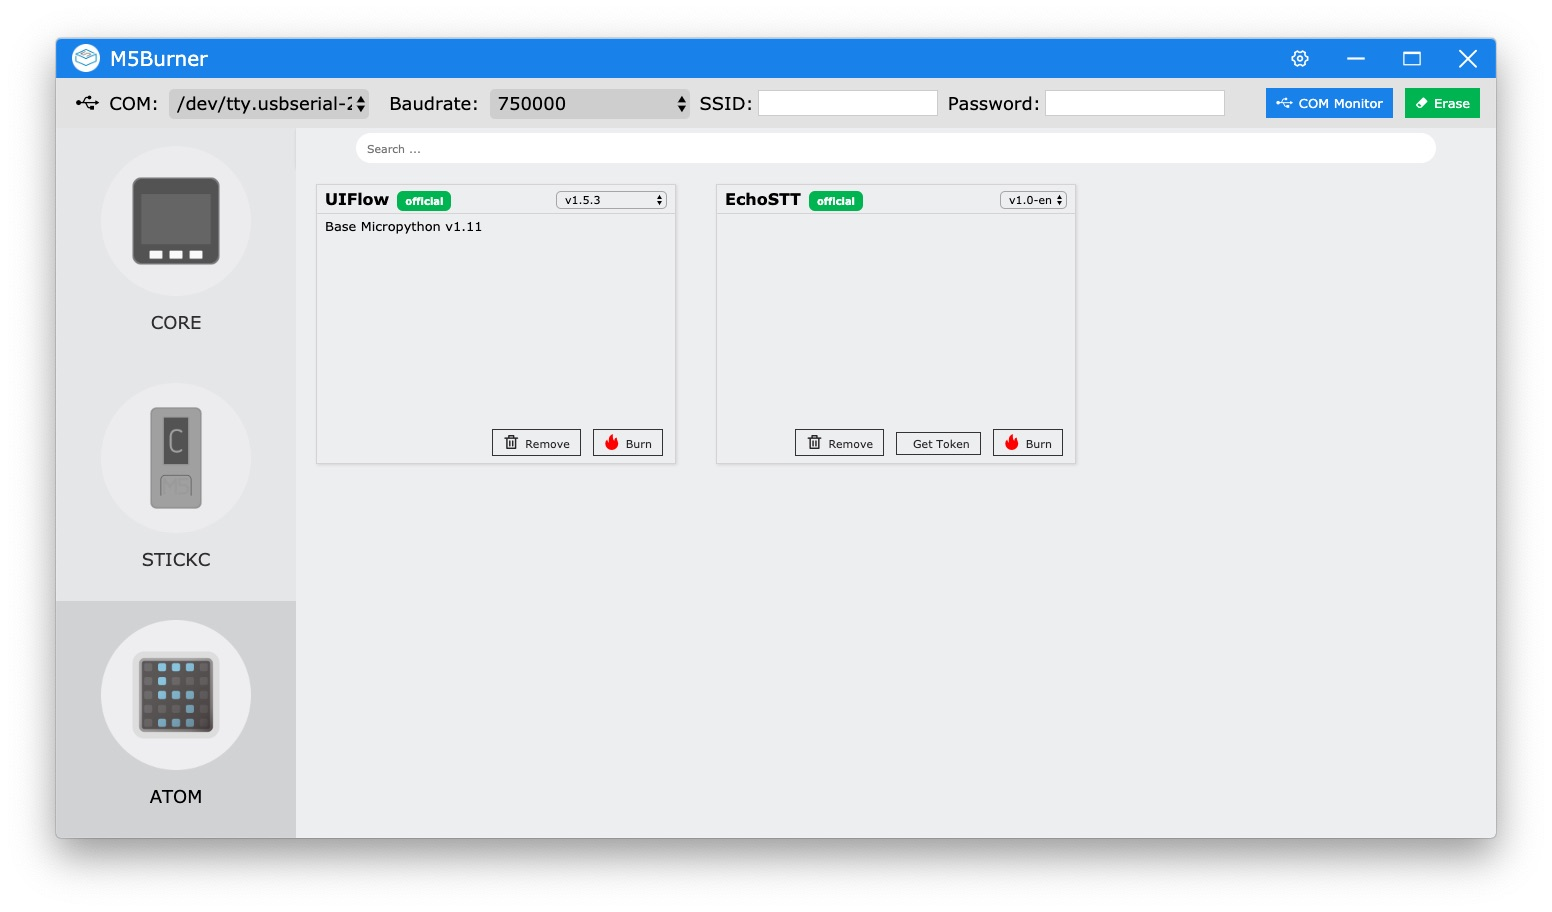
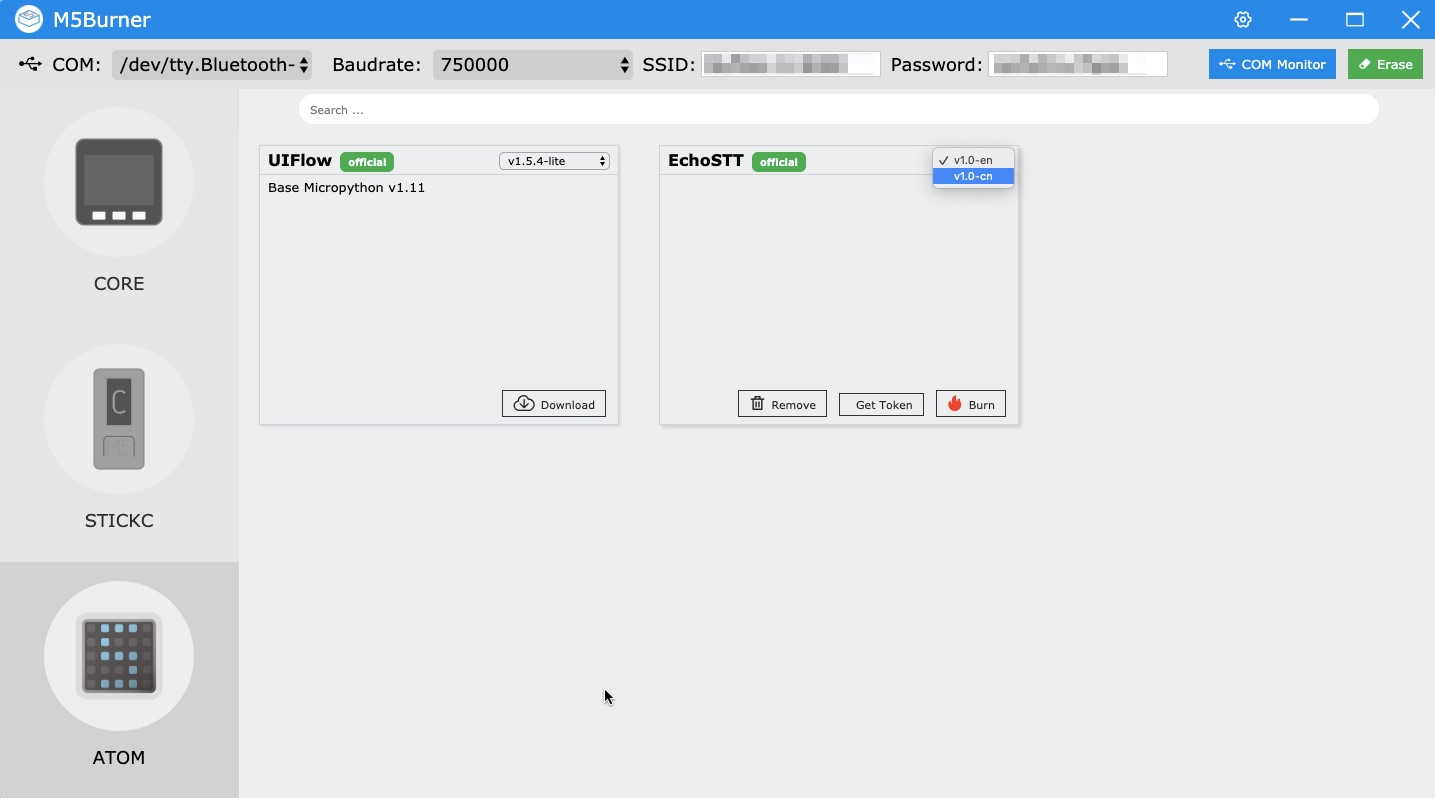
2020年6月【号外】

diff --git a/m5monthlyupdate/202006extra/index.html b/m5monthlyupdate/202006extra/index.html
@@ -160,6 +160,40 @@ hello</code></pre>
                 <h3>StreamHttpClient_ECHO</h3>
                 <p>「StreamHttpClient_ECHO」は、サーバー上のMP3ファイルを再生するサンプルで、とあるサーバー上のファンファーレのMP3ファイルを再生するようですが、コンパイルエラーになり、実行できませんでした。</p>
 
+                <h2 id="atom-echoで音声認識してみる">ATOM ECHOで音声認識してみる</h2>
+                <p>ATOM ECHOでは、Baiduの音声認識APIを使って音声認識するサンプルがあります。
+                    ATOM ECHOは音声を録音し、それをBaiduの音声認識APIに渡し、結果を受け取るという流れです。
+                    さらに別のM5StackやM5StickCを使い、UI Flowで音声認識の結果を受け取ることができます。</p>
+                <p>このためには、M5Burnerというツールでファームウェアをインストールする必要があります。
+                    M5Burnerも新しくなっているので、M5Stackサイトの<a href="https://m5stack.com/pages/download">ダウンロードページ</a> で最新版（2.0.0）をダウンロードしてPCにインストールします。</p>
+                <p><img src="./images/m5burner.jpg" width="80%" class="img-responsive center-block" alt="M5Burner"></p>
+                <p>M5BurnerのUIも新しくなっています。ATOMを選択すると、UI FLOWとEchoSTTというファームウェアが表示されます。UI Flowは名前の通り、UI Flow用のファームウェア、EchoSTTは音声認識（speech to text）のファームウェアです。</p>
+                <p>M5BurnerでATOM ECHOにEchoSTTを書き込みます。M5Burner上部のSSIDとPasswordにお使いのWi-Fiルーターのものを設定し、ATOM ECHOをUSBケーブルでパソコンにつないで、ポート番号（Macならデバイス名）をCOMに設定します。EchoSTTには英語版と中国語版がありますが、中国語版（v1.0-cn）を選び、最初に「Erase」をクリックして消去してから「Burn」をクリックして書き込みます。書き込みが終わったら「Get Token」をクリックしてトークンを取得しておきます。</p>
+                <p><img src="./images/gettoken.jpg" width="80%" class="img-responsive center-block" alt="トークン取得"></p>
+                <p>ATOM ECHOはBaiduからの認識結果をシリアルに出力するので、M5BurnerのCOM Monitorを立ち上げておきます。</p>
+                <p>著者は中国語ができないので、Google翻訳で適当な言葉を中国語にして、それをパソコンで発音させました。</p>
+                <p><img src="./images/lighton.jpg" width="80%" class="img-responsive center-block" alt="lighton"></p>
+                <p>ATOM ECHOのボタンを押して発音を録音し、ボタンを離すと音声がBaiduに送られ、結果が表示されます。</p>
+<pre><code>Init i2s_driver_install
+Init i2s_set_pin
+Init i2s_set_clk
+end
+Time 6160ms
+{"corpus_no":"6836131087810952731","err_msg":"success.","err_no":0,"result":["黑的。"],"sn":"161096290031591660801"}
+黑的。</code></pre>
+                <p>开灯（Kāi dēng、電気をつける）が黑的（Hēi de、黒）と認識されてしまいました。いろいろ試しましたが、Google翻訳で発音させた単語はうまく認識されませんでした。M5Stack社CEOのJimmyさんに开灯（電気をつける）、关灯（電気を消す）と発音してもらい、その音声ファイルを再生してATOM ECHOに聞かせたところ、次のように認識できました。</p>
+<pre><code>Time 43822ms
+{"corpus_no":"6836131688517212836","err_msg":"success.","err_no":0,"result":["开灯。"],"sn":"7165438761591660941"}
+开灯。
+
+Time 4169ms
+{"corpus_no":"6836131792467209458","err_msg":"success.","err_no":0,"result":["关灯。"],"sn":"768037177181591660965"}
+关灯。</code></pre>
+                <p>UI Flowの最新版（V1.5.4）には「高度なブロック」の中に「Echo STT」というブロックが用意されています。最新版はUI Flowのメニューバーの「VER」で「Beta」を選ぶと切り替えられます。Echo STTにはトークンを使って初期化するブロック、ECHOのデータを受信するなどのブロックがあります。これらを使うと、次のようにATOM ECHOで音声を録音、認識し、その結果を別のM5StackやM5StickCで受信して、認識した単語によって制御するようなプログラムが作れます。</p>
+                <p><img src="./images/uiflow.jpg" alt="UIFlow"></p>
+                <p>Jimmyさんの声を使い、ATOM ECHOで録音して音声認識し、その結果をM5StickCで受信してLEDを制御してみたのが次の動画です。</p>
+                <iframe width="560" height="315" src="https://www.youtube.com/embed/uYGPdKam2l8" allowfullscreen=""></iframe>
+
                 <h2 id="まとめ">まとめ</h2>
                 <p>M5StickCを使ったときに「スピーカーが内蔵されてたら便利だな」と感じていてものがATOMシリーズで実現されました。
                     これだけ小さくて、音が扱えるデバイスはおもちゃの制御やIoT端末としての可能性を感じます。皆さんのアイデアを実現するときの強力な部品になりそうです。</p>
